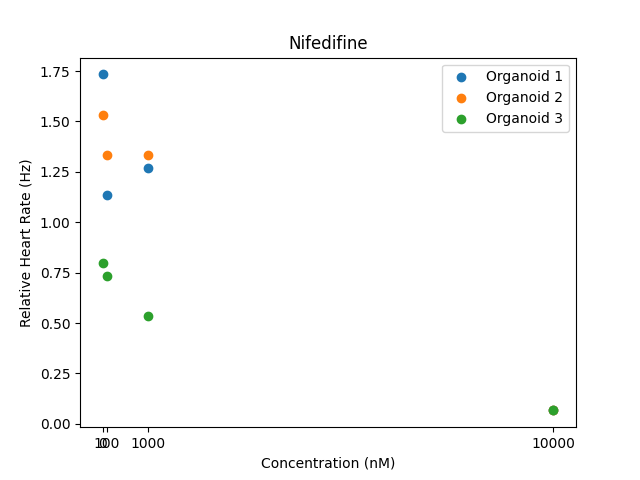
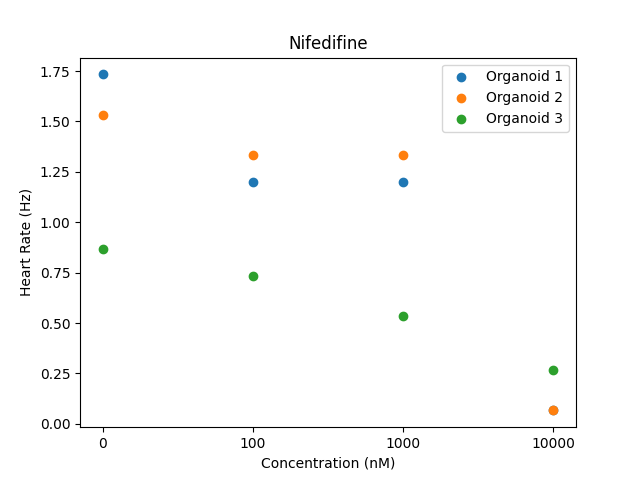
plots corrected

diff --git a/mean_intensity.py b/mean_intensity.py
@@ -7,12 +7,12 @@ from sklearn import preprocessing
 from scipy.fft import fft, fftfreq
 
 
-time_intervals = np.linspace(0, 15, 450)
+time_intervals = np.linspace(0, 10, 450)
 
 
 def frames(folder_path):
     files = [f for f in os.listdir(folder_path) if f.endswith('.tif')]
-    files = files[:450]
+    files = files[100:550]
 
     frames = []
     for file in files:
@@ -181,6 +181,35 @@ def process_organoids(conc0, conc1, conc2, conc3):
     normalize3 = [(float(i) / sum(conc2_intensity)) * 100 for i in conc2_intensity]
     normalize4 = [(float(i) / sum(conc3_intensity)) * 100 for i in conc3_intensity]
 
+    fig, axes = plt.subplots(2, 2, figsize=(10, 8))
+    # Isoprenaline
+    # Nifedifine
+    # E4031
+    # BPA
+
+    # Plot the mean intensities
+    axes[0, 0].plot(time_intervals, normalize1, color='green', markersize=1)
+    axes[0, 0].set_title('Normal')
+    axes[0, 0].set_xlabel('Relative time (sec)')
+    axes[0, 0].set_ylabel('Mean Intensities')
+
+    axes[0, 1].plot(time_intervals, normalize2, color='purple', markersize=1)
+    axes[0, 1].set_title('100 nM Isoprenaline')
+    axes[0, 1].set_xlabel('Relative time (sec)')
+    axes[0, 1].set_ylabel('Mean Intensities')
+
+    axes[1, 0].plot(time_intervals, normalize3, color='orange', markersize=1)
+    axes[1, 0].set_title('500 nM Isoprenaline')
+    axes[1, 0].set_xlabel('Relative time (sec)')
+    axes[1, 0].set_ylabel('Mean Intensities')
+
+    axes[1, 1].plot(time_intervals, normalize4, color='red', markersize=1)
+    axes[1, 1].set_title('1000 nM Isoprenaline')
+    axes[1, 1].set_xlabel('Relative time (sec)')
+    axes[1, 1].set_ylabel('Mean Intensities')
+
+    plt.show()
+
     # Calculate heart rates
     heart_rate_conc0 = calculate_heart_rate(normalize1)
     heart_rate_conc1 = calculate_heart_rate(normalize2)
@@ -191,76 +220,43 @@ def process_organoids(conc0, conc1, conc2, conc3):
 
 
 def plot_heart_rates(concentrations, heart_rates):
-    relative_heart_rates = [[(h / 1.2) * 100 for h in r] for r in heart_rates]
-    print(relative_heart_rates)
 
     for i, heart_rate in enumerate(heart_rates):
         plt.scatter(concentrations, heart_rate, marker='o', label=f'Organoid {i+1}')
     plt.xlabel('Concentration (nM)')
     plt.ylabel('Heart Rate (Hz)')
-    plt.title('Nifedifine')
+    plt.title('Isoprenaline')
     plt.legend()
     plt.xticks(concentrations)
-    plt.savefig('Nifedifine heart rate.png')
+    plt.savefig('Isoprenaline heart rate.png')
     # Isoprenaline
     # Nifedifine
+    # E4031
+    # BPA
     plt.show()
 
 
-concentrations = [0, 100, 1000, 10000]
+concentrations = ['0', '100', '500', '1000']
 
 # Assuming you have a folder with only TIFF files
-'''
+
 organoids = [
     ('D:/ann/Experiment/Isoprenaline/Normal 1/', 'D:/ann/Experiment/Isoprenaline/100 nM Isoprenaline 1/', 'D:/ann/Experiment/Isoprenaline/500 nM Isoprenaline 1/', 'D:/ann/Experiment/Isoprenaline/1 uM Isoprenaline 1/'),
     ('D:/ann/Experiment/Isoprenaline/Normal 2/', 'D:/ann/Experiment/Isoprenaline/100 nM Isoprenaline 2/', 'D:/ann/Experiment/Isoprenaline/500 nM Isoprenaline 2/', 'D:/ann/Experiment/Isoprenaline/1 uM Isoprenaline 2/'),
     ('D:/ann/Experiment/Isoprenaline/Normal 3/', 'D:/ann/Experiment/Isoprenaline/100 nM Isoprenaline 3/', 'D:/ann/Experiment/Isoprenaline/500 nM Isoprenaline 3/', 'D:/ann/Experiment/Isoprenaline/1 uM Isoprenaline 3/')
 ]
 '''
-
 organoids = [
     ('D:/ann/Experiment/Nifedifine/Normal 1/', 'D:/ann/Experiment/Nifedifine/100 nM Nifedifine 1/', 'D:/ann/Experiment/Nifedifine/1 uM Nifedifine 1/', 'D:/ann/Experiment/Nifedifine/10 uM Nifedifine 1/'),
     ('D:/ann/Experiment/Nifedifine/Normal 2/', 'D:/ann/Experiment/Nifedifine/100 nM Nifedifine 2/', 'D:/ann/Experiment/Nifedifine/1 uM Nifedifine 2/', 'D:/ann/Experiment/Nifedifine/10 uM Nifedifine 2/'),
     ('D:/ann/Experiment/Nifedifine/Normal 3/', 'D:/ann/Experiment/Nifedifine/100 nM Nifedifine 3/', 'D:/ann/Experiment/Nifedifine/1 uM Nifedifine 3/', 'D:/ann/Experiment/Nifedifine/10 uM Nifedifine 3/')
     ]
+'''
 
 heart_rates = [process_organoids(*organoid) for organoid in organoids]
 print(heart_rates)
 
 plot_heart_rates(concentrations, heart_rates)
-
-
-
-
-'''
-fig, axes = plt.subplots(2, 2, figsize=(10, 8))
-
-# Plot the mean intensities
-axes[0, 0].plot(time_intervals, normalize1, color='green', markersize=1)
-axes[0, 0].set_title('Normal')
-axes[0, 0].set_xlabel('Relative time (sec)')
-axes[0, 0].set_ylabel('Mean Intensities')
-
-axes[0, 1].plot(time_intervals, normalize2, color='purple', markersize=1)
-axes[0, 1].set_title('100 nM Isoprenaline')
-axes[0, 1].set_xlabel('Relative time (sec)')
-axes[0, 1].set_ylabel('Mean Intensities')
-
-axes[1, 0].plot(time_intervals, normalize3, color='orange', markersize=1)
-axes[1, 0].set_title('500 nM Isoprenaline')
-axes[1, 0].set_xlabel('Relative time (sec)')
-axes[1, 0].set_ylabel('Mean Intensities')
-
-axes[1, 1].plot(time_intervals, normalize4, color='red',  markersize=1)
-axes[1, 1].set_title('1 um Isoprenaline')
-axes[1, 1].set_xlabel('Relative time (sec)')
-axes[1, 1].set_ylabel('Mean Intensities')
-
-
-# Isoprenaline increases the force of contraction of the heart muscle.
-plt.savefig('Isoprenaline intensity 1_normalized.png', bbox_inches='tight', dpi=300)
-plt.show()
-'''
 
 
 '''
@@ -295,5 +291,5 @@ plt.show()
 '''
 
 
-# Isoprenaline
-# E4031
+
+

diff --git a/idk.py b/idk.py
@@ -9,7 +9,8 @@ from scipy.fft import fft, fftfreq
 
 def frames(folder_path):
     files = [f for f in os.listdir(folder_path) if f.endswith('.tif')]
-    files = files[:450]
+    files = files[90:390]
+    print(len(files))
 
     frames = []
     for file in files:
@@ -144,7 +145,7 @@ def roi_mean_intensity(frame):
 
 # Fast Fourier Transform (FFT)
 def calculate_heart_rate(intensity):
-    time_intervals = np.linspace(0, 15, 450)
+    time_intervals = np.linspace(0, 15, 300)
 
     # graph of your waveform doesn't start from zero, it implies that there is a DC offset in your signal
     intensity -= np.mean(intensity)
@@ -189,21 +190,21 @@ def calculate_heart_rate(intensity):
 
 # Assuming you have a folder with only TIFF files
 '''
-normal = 'D:/ann/Experiment/Nifedifine/Normal 1/'
-hundred_nM = 'D:/ann/Experiment/Nifedifine/100 nM Nifedifine 1/'
-one_uM = 'D:/ann/Experiment/Nifedifine/1 uM Nifedifine 1/'
-ten_uM = 'D:/ann/Experiment/Nifedifine/10 uM Nifedifine 1/'
+normal = 'D:/ann/Experiment/Nifedifine/Normal 2/'
+hundred_nM = 'D:/ann/Experiment/Nifedifine/100 nM Nifedifine 2/'
+one_uM = 'D:/ann/Experiment/Nifedifine/1 uM Nifedifine 2/'
+ten_uM = 'D:/ann/Experiment/Nifedifine/10 uM Nifedifine 2/'
 '''
 
-normal = 'D:/ann/Experiment/Isoprenaline/Normal 3/'
-hundred_nM = 'D:/ann/Experiment/Isoprenaline/100 nM Isoprenaline 3/'
-five_hundred_nM = 'D:/ann/Experiment/Isoprenaline/500 nM Isoprenaline 3/'
-one_um = 'D:/ann/Experiment/Isoprenaline/1 um Isoprenaline 3/'
+normal = 'D:/ann/Experiment/Isoprenaline/Normal 2/'
+hundred_nM = 'D:/ann/Experiment/Isoprenaline/100 nM Isoprenaline 2/'
+five_hundred_nM = 'D:/ann/Experiment/Isoprenaline/500 nM Isoprenaline 2/'
+one_um = 'D:/ann/Experiment/Isoprenaline/1 um Isoprenaline 2/'
 
 # Extract calcium concentration values from the frames
 intensity = [roi_mean_intensity(frame) for frame in frames(one_um)]
-# normalize = [(float(i)/sum(intensity))*100 for i in intensity]
-normalize = [2 * ((x - min(intensity)) / (max(intensity) - min(intensity))) - 1 for x in intensity]
+normalize = [(float(i)/sum(intensity))*100 for i in intensity]
+# normalize = [2 * ((x - min(intensity)) / (max(intensity) - min(intensity))) - 1 for x in normal]
 
 # Calculate heart rates
 heart_rate = calculate_heart_rate(normalize)

diff --git a/fourier.py b/fourier.py
@@ -2,8 +2,8 @@ import numpy as np
 import matplotlib.pyplot as plt
 
 
-concentrations = [0, 100, 1000]
-heart_rates = [[1.73, 1.13, 1.26], [1.53, 1.33, 1.33], [0.8, 0.73, 0.53]]
+concentrations = ['0', '100', '1000', '10000']
+heart_rates = [[1.2, 1.8, 1.86, 1.33], [1.33, 2.13, 0.06, 0.06], [1.6, 1.4, 2.0, 1.93]]
 
 # The number of times heartbeats in 60 seconds = 72 times
 # 72/60 = 1.25 times heartbeats per second
